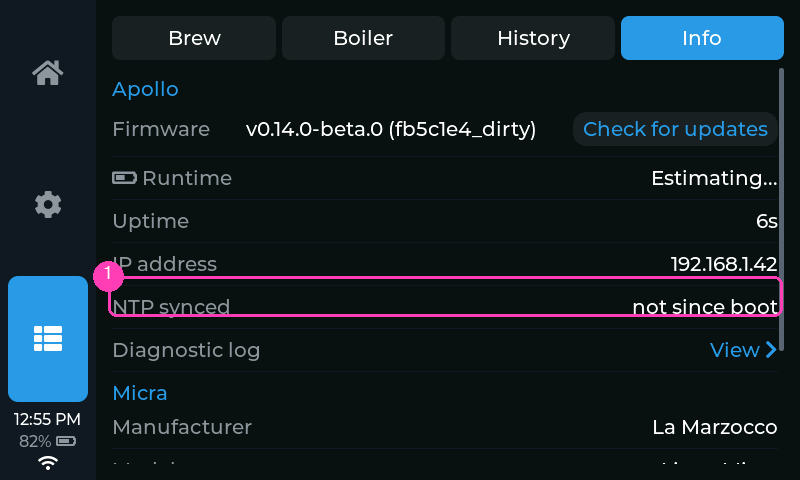
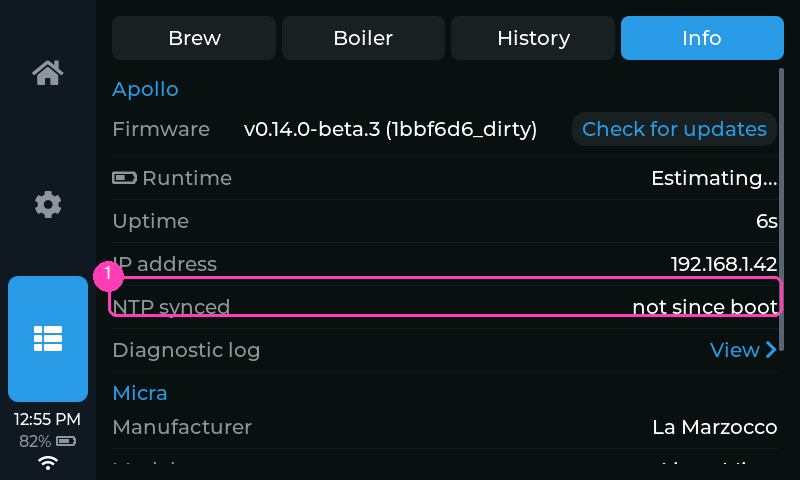
settings backup: make the notices readable
Both operations finish in a fraction of a second, so the working notice and the
result dialog behind it were one flash: you could not tell what had run, or
that anything had. The working notice ("Backing up" / "Restoring") now holds
for 1.5 s before the outcome replaces it, and after a restore "Settings
restored" stays up for 8 s before the reboot takes the screen.

That hold deliberately outlives its modal: once a restore has replaced NVS the
reboot is mandatory -- the running app still holds the old values in RAM -- so
anything that closes the notice early must not cancel it. The overlay also
swallows touch for the duration, which stops a stray tap writing a stale
setting over the freshly restored namespace.

Also rewords the backup-done notice: it said to keep the card with the machine,
which reads as an argument against the one thing the feature is for.

Changed region(s): [[0.2812, 0.25, 0.6875, 0.2812], [0.7188, 0.25, 0.9688, 0.2812]]

diff --git a/src/ui/app.cpp b/src/ui/app.cpp
@@ -208,6 +208,20 @@ constexpr const char* kMonthNames[12] = {"Jan", "Feb", "Mar", "Apr",
                                          "May", "Jun", "Jul", "Aug",
                                          "Sep", "Oct", "Nov", "Dec"};
 
+// How long "Settings restored" stays up before the reboot takes the screen.
+// Without a hold the notice is painted and gone inside a frame — the reboot
+// follows immediately — so the one message telling you what just happened is
+// unreadable. The overlay swallows touch for its duration, which also stops a
+// stray tap writing a stale setting over the freshly restored NVS.
+constexpr uint32_t kRestoreHoldMs = 8000;
+
+// Minimum time the "Backing up" / "Restoring" notice stays up. Both operations
+// finish in a fraction of a second on a healthy card, so without a floor the
+// whole sequence is one flash and you cannot tell what ran — or that anything
+// ran at all. Holding the working notice makes the result that follows read as
+// the OUTCOME of something rather than as an unexplained dialog.
+constexpr uint32_t kWorkingFloorMs = 1500;
+
 // "12 Sep 2026 08:14" — a card can outlive several firmwares, so the stamp is
 // written long-form rather than in the numeric style the Stats cards use.
 void format_stamp(char* out, size_t n, int64_t unix_time) {
@@ -270,6 +284,9 @@ void on_restore_confirm(lv_event_t* e) {
 }
 void on_backup_cancel(lv_event_t* e) {
   static_cast<ui::App*>(lv_event_get_user_data(e))->dismiss_modal();
+}
+void on_restore_hold_done(lv_timer_t* t) {
+  static_cast<ui::App*>(lv_timer_get_user_data(t))->reboot_after_restore();
 }
 
 void on_reset_stats_confirm(lv_event_t* e) {
@@ -2628,6 +2645,10 @@ void App::close_modal() {
   }
   log_box_ = nullptr;
   log_label_ = nullptr;
+  // NOTE: reboot_timer_ is deliberately NOT torn down here. Once a restore has
+  // replaced NVS the reboot is mandatory — the running app still holds the old
+  // values in RAM — so the hold must survive anything that closes the notice
+  // early (another modal opening over it, a theme rebuild).
   backup_wifi_switch_ = nullptr;  // all three live on the backup modal's card
   backup_token_switch_ = nullptr;
   backup_note_ = nullptr;
@@ -3363,6 +3384,21 @@ void App::open_backup_modal() {
   modal_button(brow, "Cancel", ui::theme::rail(), on_backup_cancel, this);
 }
 
+// Sim only: age the working notice past its floor so a render can show the
+// outcome dialog without ticks having to pass.
+void App::pose_backup_result() {
+  backup_started_ms_ = lv_tick_get() - kWorkingFloorMs - 1;
+  backup_result_poll();
+}
+
+// Hold expired: paint one last frame (the reboot can land mid-refresh
+// otherwise) and go. A REAL reboot — the restored values are read at boot.
+void App::reboot_after_restore() {
+  reboot_timer_ = nullptr;  // one-shot: LVGL deletes it after this callback
+  lv_refr_now(nullptr);
+  reboot_device();
+}
+
 void App::set_backup_include_wifi(bool on) {
   backup_include_wifi_ = on;
   // Sync the switch too: this is also how the sim poses an opted-out state
@@ -3410,8 +3446,8 @@ void App::confirm_backup() {
   if (backup_ == nullptr) return;
   backup_->request_backup(backup_include_wifi_, backup_include_token_);
   backup_pending_ = true;
+  backup_started_ms_ = lv_tick_get();
   open_modal("Backing up", "Writing settings to the card...");
-  backup_result_poll();  // a fast card finishes before the next refresh tick
 }
 
 void App::open_restore_modal() {
@@ -3466,17 +3502,18 @@ void App::confirm_restore() {
   if (backup_ == nullptr) return;
   backup_->request_restore();
   backup_pending_ = true;
+  backup_started_ms_ = lv_tick_get();
   open_modal("Restoring", "Reading settings from the card...");
-  backup_result_poll();
 }
 
 // Watches the port for the outcome of a request and swaps the working modal for
-// the result. Called from refresh() (and once straight after the request, so a
-// fast card doesn't flash a spinner nobody can read).
+// the result. Called from refresh(), and not before the working notice has had
+// its kWorkingFloorMs on screen.
 void App::backup_result_poll() {
   if (!backup_pending_ || backup_ == nullptr) return;
   const core::BackupState st = backup_->state();
   if (st == core::BackupState::kBusy || st == core::BackupState::kIdle) return;
+  if (lv_tick_elaps(backup_started_ms_) < kWorkingFloorMs) return;  // let it be read
   backup_pending_ = false;
   const bool restore = backup_->last_op() == core::BackupOp::kRestore;
   const std::string detail = backup_->message();
@@ -3491,16 +3528,19 @@ void App::backup_result_poll() {
 
   if (restore) {
     // No button: the restart IS the acknowledgement, and a settings-restored
-    // device must not keep running with the old values in RAM.
+    // device must not keep running with the old values in RAM. It waits
+    // kRestoreHoldMs first so the notice can actually be read.
     open_modal("Settings restored", "Apollo is restarting...");
-    lv_refr_now(nullptr);  // paint before the reboot takes the screen
-    reboot_device();       // a REAL reboot: the restored values are read at boot
+    if (reboot_timer_ == nullptr) {
+      reboot_timer_ = lv_timer_create(on_restore_hold_done, kRestoreHoldMs, this);
+      lv_timer_set_repeat_count(reboot_timer_, 1);
+    }
     return;
   }
   char body[192];
   std::snprintf(body, sizeof(body),
-                "%s%sKeep the card with the machine - it now holds your "
-                "settings as well as your shots.",
+                "%s%sCard contains settings specific to this Micra, and can "
+                "be moved to another Apollo device to restore settings.",
                 detail.c_str(), detail.empty() ? "" : ".\n");
   lv_obj_t* card = open_modal("Settings backed up", body);
   modal_button(modal_button_row(card), "OK", ui::theme::rail(), on_backup_cancel, this);

diff --git a/src/sim/main.cpp b/src/sim/main.cpp
@@ -107,8 +107,10 @@ bool render(core::IMachine& machine, core::IProvisioner& provisioner,
   if (update_modal) app.open_update_modal();
   // 1 = back-up confirm, 2 = the same with WiFi opted out, 3 = restore confirm
   // (4 = its "backup is newer than this firmware" refusal, posed by the fake),
-  // 5 = backup done, 6 = restore done, 7 = no card in the slot.
-  if (backup_modal == 1 || backup_modal == 5 || backup_modal == 7)
+  // 5 = backup done, 6 = restore done, 7 = no card in the slot, 8 = the
+  // "Backing up" notice itself (it now holds for kWorkingFloorMs).
+  if (backup_modal == 1 || backup_modal == 5 || backup_modal == 7 ||
+      backup_modal == 8)
     app.open_backup_modal();
   if (backup_modal == 2) {  // both credentials opted out
     app.open_backup_modal();
@@ -116,10 +118,15 @@ bool render(core::IMachine& machine, core::IProvisioner& provisioner,
     app.set_backup_include_token(false);
   }
   if (backup_modal == 3 || backup_modal == 4) app.open_restore_modal();
-  if (backup_modal == 5) app.confirm_backup();
+  if (backup_modal == 8) app.confirm_backup();  // stops at the working notice
+  if (backup_modal == 5) {
+    app.confirm_backup();
+    app.pose_backup_result();
+  }
   if (backup_modal == 6) {
     app.open_restore_modal();
-    app.confirm_restore();  // no reboot handler in the sim: the modal stays up
+    app.confirm_restore();
+    app.pose_backup_result();  // no reboot handler in the sim: the notice stays
   }
   display.render_frame();
   if (screensaver && !check_saver_dirty_area(screen)) return false;
@@ -307,6 +314,8 @@ int main() {
   ok &= r({800, 480}, "renders/restore_modal_optout_800x480.png", 1, ui::kSectionDeviceBackup,
           false, 0, -1, false, -1, 0, false, false, false, false, false, false, false, 3);
   backup.pose_backup_present();
+  ok &= r({800, 480}, "renders/backup_working_800x480.png", 1, ui::kSectionDeviceBackup,
+          false, 0, -1, false, -1, 0, false, false, false, false, false, false, false, 8);
   ok &= r({800, 480}, "renders/backup_done_800x480.png", 1, ui::kSectionDeviceBackup,
           false, 0, -1, false, -1, 0, false, false, false, false, false, false, false, 5);
   ok &= r({800, 480}, "renders/restore_done_800x480.png", 1, ui::kSectionDeviceBackup,

diff --git a/include/ui/app.h b/include/ui/app.h
@@ -140,6 +140,8 @@ class App {
   void open_restore_modal();             // "Restore from card" -> confirm / refusal
   void confirm_restore();                // modal "Restore"
   void backup_result_poll();             // watch state(); swap in the outcome modal
+  void pose_backup_result();             // sim: skip the working notice's floor
+  void reboot_after_restore();           // the restore modal's hold timer fired
   void hour_select(int idx);             // Time & date dropdowns: selection ->
   void minute_select(int idx);           // clock/date write (hour idx == hour,
   void month_select(int idx);            // month/day 1-based, year offset from
@@ -267,6 +269,8 @@ class App {
   lv_obj_t* backup_wifi_switch_ = nullptr;   // "Include WiFi network" (modal-owned)
   lv_obj_t* backup_token_switch_ = nullptr;  // "Include pairing token"
   lv_obj_t* backup_note_ = nullptr;          // what an opted-out backup leaves out
+  lv_timer_t* reboot_timer_ = nullptr;       // holds the restored notice on screen
+  uint32_t backup_started_ms_ = 0;           // when the working modal went up
   void update_backup_note();                 // rewrite that line from the switches
   int update_last_seq_ = -1;         // last seen check_seq(); -1 = not baselined
   bool manual_check_pending_ = false;  // a user-initiated check awaits its result

diff --git a/include/version.h b/include/version.h
@@ -7,7 +7,7 @@
 
 namespace fw {
 
-inline constexpr const char* kVersion = "0.14.0-beta.2";
+inline constexpr const char* kVersion = "0.14.0-beta.3";
 
 #ifdef FW_GIT_REV
 inline constexpr const char* kGitRev = FW_GIT_REV;

diff --git a/CHANGELOG.md b/CHANGELOG.md
@@ -7,6 +7,17 @@ for someone reading the diff. These notes are also shown ON THE DEVICE, whose
 fonts are ASCII-only: stick to characters `sanitize_notes()` (src/ui/app.cpp)
 maps — plain ASCII plus `— – → … × ' "` — or they render as empty boxes.
 
+## v0.14.0-beta.3
+
+### Changes
+
+- **Settings backup: the notices can be read now.** Backing up and restoring
+  both finish in a fraction of a second, so the "Backing up" / "Restoring"
+  notice and the result that followed it went by in a single flash. Each one
+  now stays on screen long enough to read, and after a restore the "Settings
+  restored" notice holds for eight seconds before Apollo restarts.
+- The backup confirmation's wording is clearer about what ends up on the card.
+
 ## v0.14.0-beta.2
 
 ### Changes
